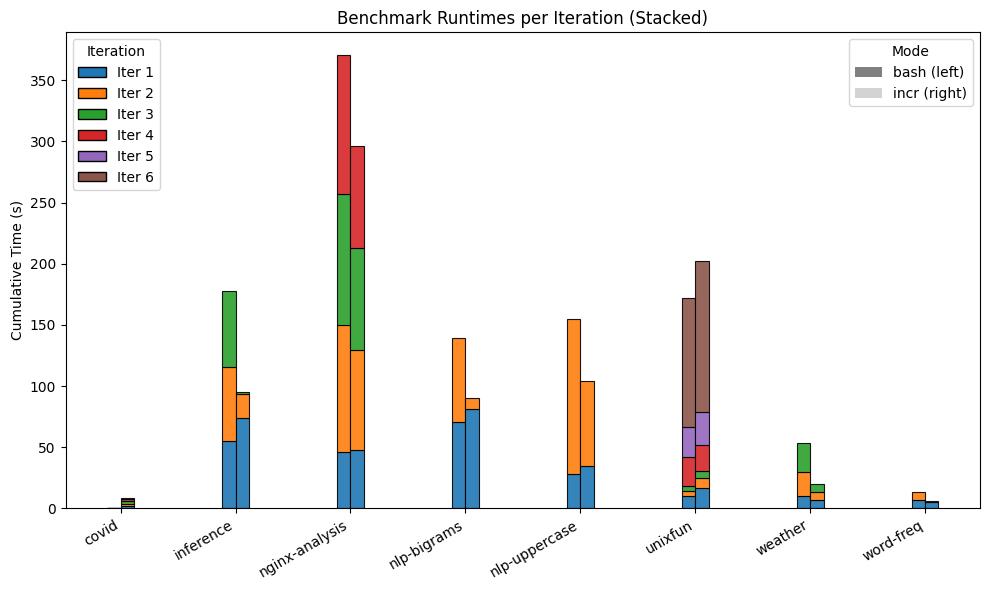
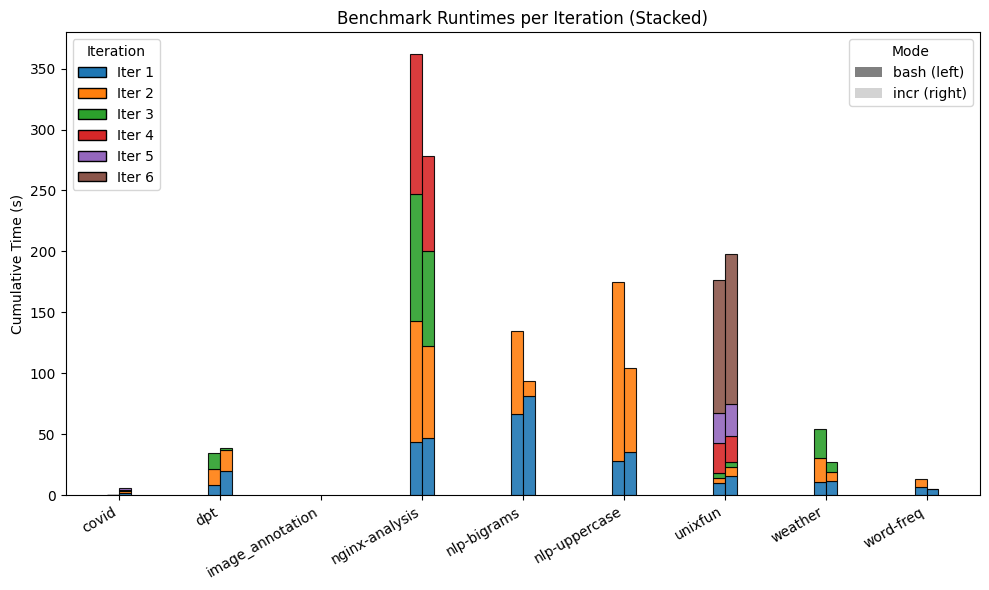
plots

diff --git a/evaluation/analysis/plot.py b/evaluation/analysis/plot.py
@@ -6,7 +6,8 @@ from matplotlib.patches import Patch
 
 BENCHMARKS = [
     "covid",
-    "inference",
+    "dpt",
+    "image_annotation",
     "nginx-analysis",
     "nlp-bigrams",
     "nlp-uppercase",
